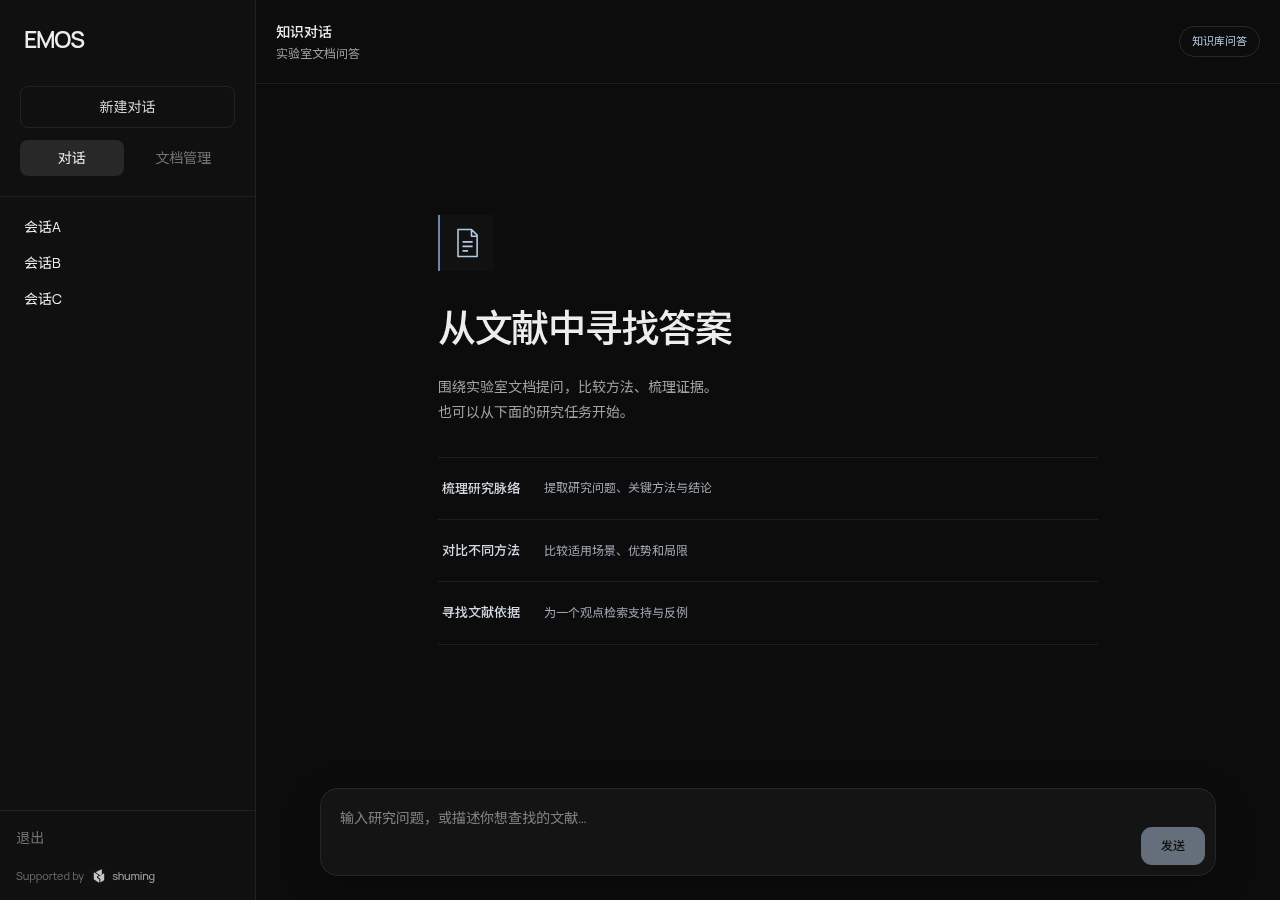
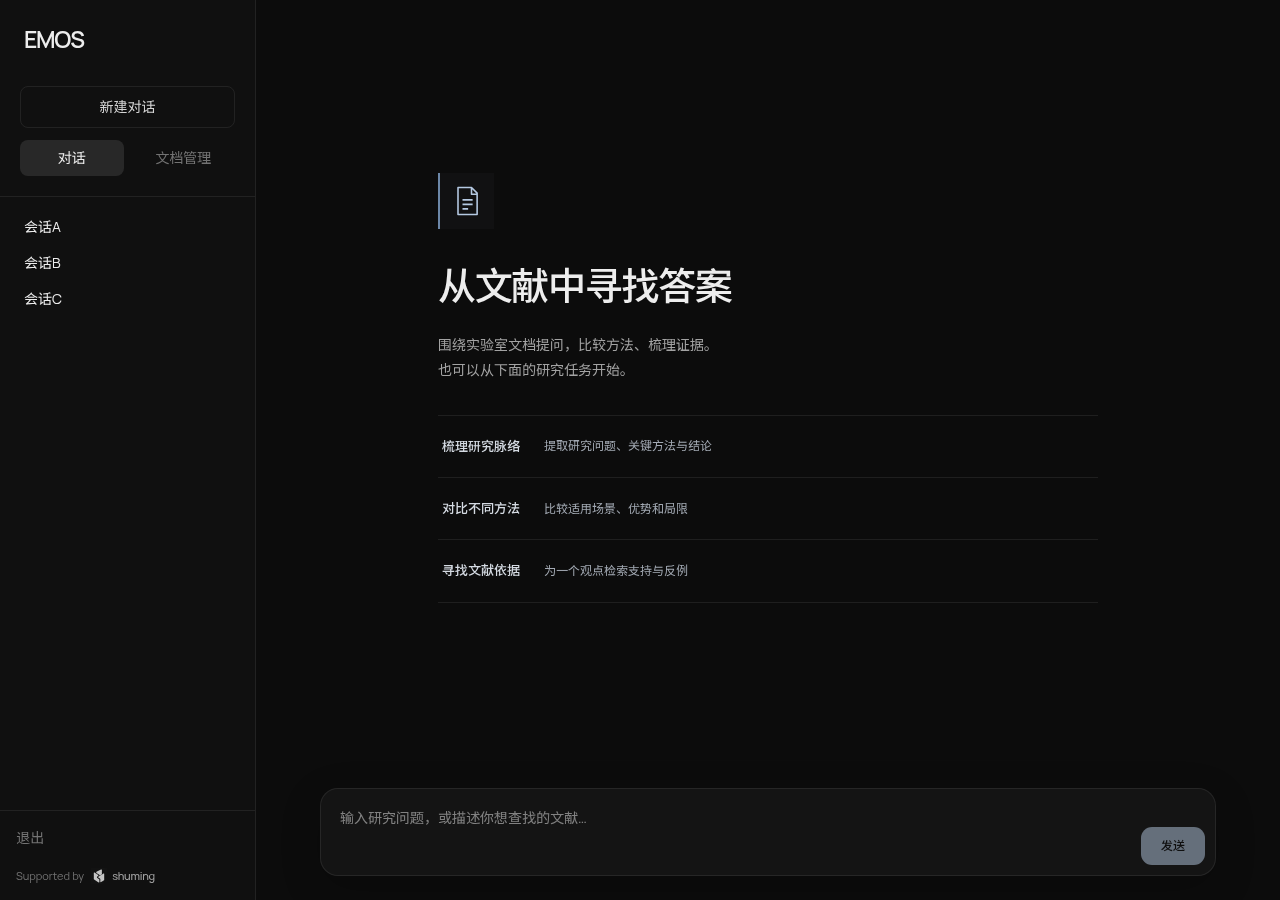
web: remove chat chrome and message identity labels

diff --git a/web/src/app/page.tsx b/web/src/app/page.tsx
@@ -725,15 +725,11 @@ export default function Home() {
       </aside>
 
       <div className="flex min-h-0 min-w-0 flex-1 flex-col">
-        <header className="chat-header flex shrink-0 items-center justify-between bg-background px-5 py-4">
+        <header className={`flex shrink-0 items-center justify-between bg-background px-5 py-4 ${activeView === "chat" ? "chat-navigation md:hidden" : "chat-header"}`}>
           <div className="flex items-center gap-3">
             <button className="rounded-lg border border-line px-2.5 py-1.5 text-neutral-300 md:hidden" aria-label="打开导航" aria-expanded={sidebarOpen} onClick={() => setSidebarOpen(true)}><svg width="16" height="16" viewBox="0 0 24 24" fill="none" stroke="currentColor" strokeWidth="1.5" aria-hidden="true"><path d="M4 6h16M4 12h16M4 18h16" /></svg></button>
-            <div>
-            <h1 className="text-sm font-medium">{activeView === "chat" ? sessions.find(session => session.id === activeSession)?.title || "知识对话" : "文档管理"}</h1>
-            {activeView === "chat" && <p className="mt-1 text-xs text-neutral-400">实验室文档问答</p>}
-            </div>
+            {activeView === "documents" && <h1 className="text-sm font-medium">文档管理</h1>}
           </div>
-          {activeView === "chat" && <span className="stream-badge" role="status">{loading ? "正在生成" : "知识库问答"}</span>}
           {activeView === "documents" && (
             <div>
               <input
@@ -756,6 +752,7 @@ export default function Home() {
         </header>
 
         <main onScroll={(event) => { const el = event.currentTarget; followOutput.current = el.scrollHeight - el.scrollTop - el.clientHeight < 100; setShowJumpToLatest(!followOutput.current); }} className={`mx-auto min-h-0 w-full flex-1 overflow-y-auto overscroll-y-contain px-5 py-5 ${activeView === "chat" ? "max-w-4xl" : "max-w-7xl"}`}>
+          {activeView === "chat" && <h1 className="sr-only">知识对话</h1>}
           {uploadNotice && (
             <div
               className={`mb-5 rounded-lg border px-4 py-3 text-sm ${
@@ -788,13 +785,11 @@ export default function Home() {
               )}
               {messages.map((msg) => (
                 <article key={msg.id} className={`message-row ${msg.role}`} aria-label={msg.role === "user" ? "你的问题" : "EMOS 的回答"}>
-                  <div className="message-avatar" aria-hidden="true">{msg.role === "user" ? "你" : <Image src="/shuming-icon.png" alt="" width={30} height={30} className="assistant-avatar-logo" />}</div>
                   <div className="message-body" aria-busy={msg.isStreaming}>
-                    <div className="message-label">{msg.role === "user" ? "你" : "EMOS"}<span>{msg.isStreaming ? "生成中" : msg.role === "assistant" ? "研究助手" : ""}</span></div>
                     {msg.role === "assistant" ? <>
                       {msg.reasoning && <details className="reasoning-panel"><summary>{msg.isReasoning ? "正在思考…" : "思考过程"}</summary><div>{msg.reasoning}</div></details>}
                       <div className="prose prose-sm max-w-none prose-slate"><ReactMarkdown remarkPlugins={[remarkGfm]}>{msg.content}</ReactMarkdown></div>
-                      {msg.isStreaming && <div className="generation-status" role="status"><span className="stream-dot" />{msg.toolStatus || (msg.isReasoning ? "正在思考…" : msg.content ? "正在输出…" : "正在连接知识与灵感…")}</div>}
+                      {msg.isStreaming && <div className="generation-status" role="status"><span className="stream-dot" aria-hidden="true" /><span className="sr-only">{msg.toolStatus || (msg.isReasoning ? "正在思考" : "正在生成回答")}</span></div>}
                       {msg.notice && <p role="status" className="message-notice">{msg.notice}</p>}
                       {!msg.isStreaming && msg.content && <button className="copy-answer" onClick={async () => { try { await navigator.clipboard.writeText(msg.content); setCopiedId(msg.id); } catch { setCopiedId("failed"); } }}>{copiedId === msg.id ? "已复制" : "复制回答"}</button>}
                       {copiedId === "failed" && <span role="status">复制失败，请手动选择文字。</span>}

diff --git a/web/src/app/globals.css b/web/src/app/globals.css
@@ -80,7 +80,6 @@ button:focus-visible, a:focus-visible { outline: 2px solid var(--accent); outlin
 /* Research workspace: existing dark identity, quiet steel-blue cues. */
 :root { --accent: #b5c9e2; --line: #ffffff14; }
 .chat-header { border-bottom: 1px solid var(--line); min-height: 84px; }
-.stream-badge { color: #b5c9e2; background: #b5c9e20; border: 1px solid #b5c9e226; border-radius: 999px; padding: 6px 12px; font-size: 11px; white-space: nowrap; }
 .chat-welcome { display: flex; align-items: center; justify-content: center; min-height: 100%; padding: 48px 0; text-align: left; }
 .welcome-content { width: 100%; max-width: 660px; }
 .research-mark { width: 56px; height: 56px; display: grid; place-items: center; color: #b5c9e2; margin-bottom: 28px; border-left: 2px solid #6c87a8; background: #b5c9e208; }
@@ -92,13 +91,8 @@ button:focus-visible, a:focus-visible { outline: 2px solid var(--accent); outlin
 .task-title { font-size: 13px; font-weight: 500; white-space: nowrap; }
 .task-description { font-size: 12px; color: #a3aab4; }
 .message-row { display: flex; align-items: flex-start; gap: 14px; margin: 20px 0 34px; }
-.message-avatar { display: grid; place-items: center; width: 32px; height: 32px; flex-shrink: 0; font-size: 13px; font-weight: 600; }
-.assistant-avatar-logo { display: block; width: 30px; height: 30px; filter: invert(1); mix-blend-mode: screen; }
 .message-body { min-width: 0; flex: 1; }
-.message-label { display: flex; align-items: center; gap: 12px; margin: 5px 0 13px; font-size: 12px; font-weight: 600; }
-.message-label span { color: #a3a3a3; font-size: 10px; font-weight: 400; }
-.message-row.user { padding: 18px; border: 1px solid var(--line); background: #ffffff04; border-radius: 16px; }
-.user .message-avatar { background: #ffffff0a; color: #c7c7c7; border: 1px solid var(--line); border-radius: 10px; }
+.message-row.user { width: fit-content; max-width: 85%; margin-left: auto; padding: 14px 18px; border: 1px solid var(--line); background: #ffffff08; border-radius: 16px; }
 .user-content { white-space: pre-wrap; overflow-wrap: anywhere; line-height: 1.8; }
 .prose { font-size: 14px; color: #dedede; }
 .prose h1 { font-size: 1.6em; }.prose h2 { font-size: 1.35em; }.prose h3 { font-size: 1.15em; }
@@ -121,7 +115,6 @@ textarea:focus-visible { outline: none; }
   .prompt-grid button { padding: 15px 4px; gap: 4px; align-items: flex-start; flex-direction: column; }
   .chat-header { min-height: 76px; }
   .chat-header p { max-width: 170px; font-size: 10px; }
-  .stream-badge { padding: 5px 8px; font-size: 10px; }
   .message-row { gap: 10px; }.message-row.user { padding: 12px; }
 }
 @media (prefers-reduced-motion: reduce) { .stream-dot { animation: none; } }
@@ -133,5 +126,7 @@ textarea:focus-visible { outline: none; }
 
 .chat-header > div, .chat-header > div > div { min-width: 0; }
 .chat-header h1 { overflow: hidden; text-overflow: ellipsis; white-space: nowrap; }
-.chat-header button, .stream-badge { flex-shrink: 0; }
+.chat-header button { flex-shrink: 0; }
 .chat-header { gap: 12px; }
+
+.chat-navigation { min-height: 56px; padding-top: 12px; padding-bottom: 0; }

diff --git a/web/tests/session-switch.spec.ts b/web/tests/session-switch.spec.ts
@@ -131,7 +131,9 @@ test('background replies and session navigation stay isolated', { timeout: 90000
     await wait(`!!window.mock.streams.A`);
     await evaluate(`window.mock.emit('A',{type:'reasoning',content:'先检索实验室资料，再对比研究结论。'});window.mock.emit('A',{type:'answer',content:'回答A第一段'})`);
     await wait(`document.body.innerText.includes('回答A第一段')`);
-    assert.equal(await evaluate(`document.querySelector('.assistant-avatar-logo')?.getAttribute('src')?.includes('shuming-icon')`), true);
+    assert.equal(await evaluate(`document.querySelector('.message-avatar, .assistant-avatar-logo, .message-label, .stream-badge') === null`), true);
+    assert.equal(await evaluate(`document.querySelector('header').innerText.trim()`), '');
+    assert.equal(await evaluate(`getComputedStyle(document.querySelector('header')).display`), 'none');
     assert.equal(await evaluate(`document.querySelector('.composer-hint') === null`), true);
     assert.equal(await evaluate(`document.body.innerText.includes('Shift + Enter')`), false);
     await click('会话B');

diff --git a/docs/chat-design.md b/docs/chat-design.md
@@ -39,3 +39,7 @@
 ### 反馈修订（2026-10-23）
 
 助手头像复用项目现有的枢明书页标志，以反白方式适配深色界面，替代方框中的 E；不新增图标系统。移除输入框下方整行快捷键与免责声明文字，保留 Enter / Shift+Enter 行为。
+
+### 极简修订（2026-10-23，后续反馈）
+
+按用户最新反馈，删除消息头像、EMOS/你等角色标签，以及聊天顶部会话名、实验室文档说明和状态徽标。问题靠右显示为轻量气泡，助手答案直接排版；流式生成仅保留微小脉冲点和屏幕阅读器状态。桌面聊天不保留空白顶栏，手机仅保留导航按钮。文档管理页的标题与上传操作不受影响，侧边栏品牌与会话列表保留。上面的截图已替换为最新版本；此修订取代之前的头像设计。
